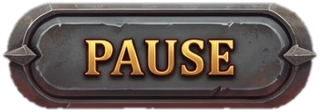
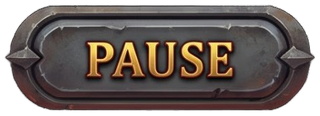
v0.8.1: botones nuevos del usuario (fondo negro, recorte más limpio)
Claude-Session: https://claude.ai/code/session_01W5ZspTRybTKZ1A5tCPDiuk

diff --git a/src/app/main.c b/src/app/main.c
@@ -15,7 +15,7 @@
 #define STBI_NO_STDIO
 #include "stb_image.h"
 
-#define APP_VERSION "0.8.0"
+#define APP_VERSION "0.8.1"
 #define KNOWN_CRC 0x96FB4D4Bu
 #define UI_W 640
 #define UI_H 360
